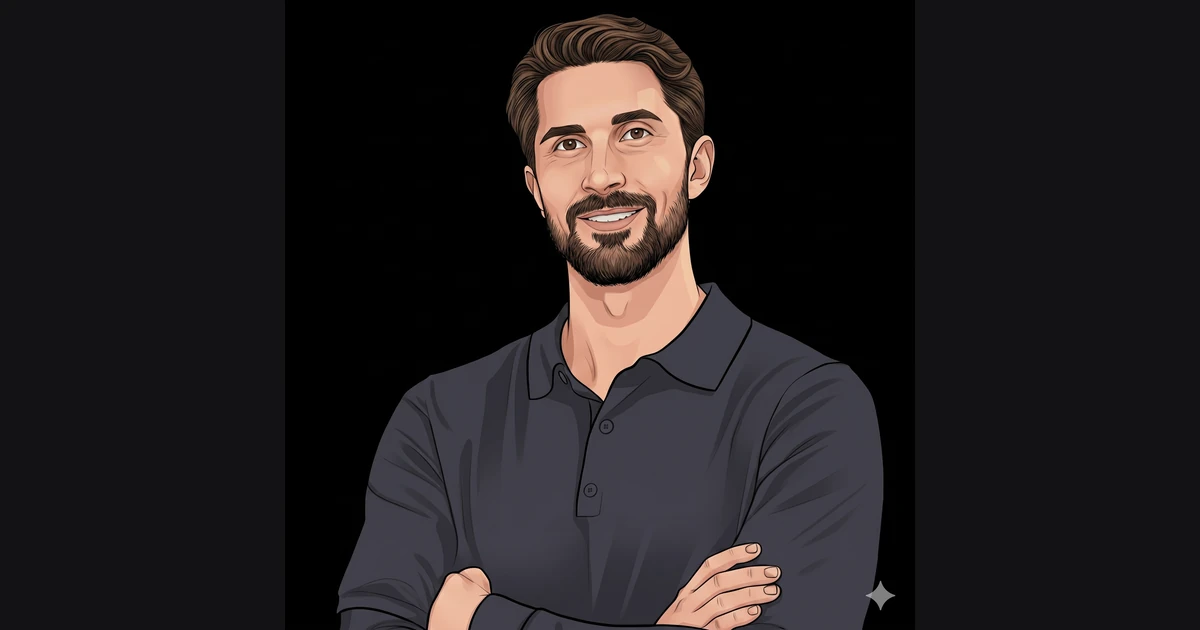
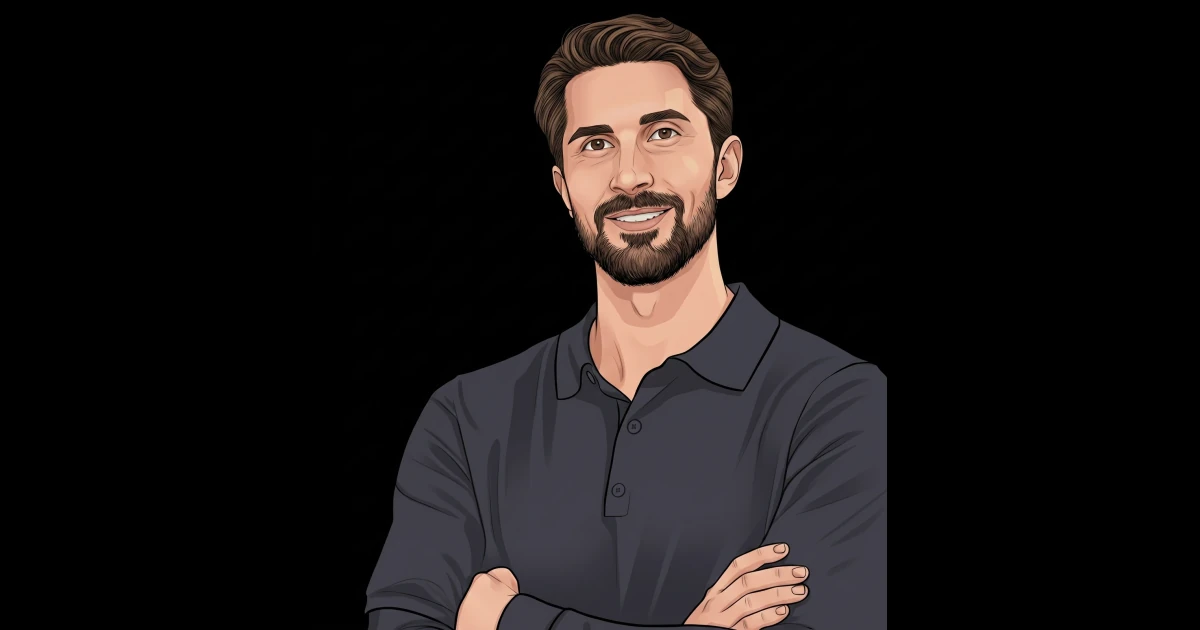
optimize landing images

diff --git a/assets/styles.css b/assets/styles.css
@@ -654,27 +654,28 @@ html[data-theme="dark"] .contact-modal .close-btn:hover {
   box-shadow: 0 30px 60px rgba(0, 0, 0, 0.15);
 }
 
-/* Larger than the disk + overflow on .hero-profile so a small upward move
-   never reveals the flat background under the artwork */
+/* Full portrait inside the disk: contain avoids zoom-crop; disk shows as a ring
+   where the square artwork does not cover the circle */
 .profile-image {
   position: absolute;
   left: 50%;
   top: 50%;
-  width: 108%;
-  height: 108%;
+  width: 100%;
+  height: 100%;
   max-width: none;
   border: none;
   border-radius: 0;
-  transform: translate(-50%, -50%);
+  /* Slightly below center so a small upward hover does not expose the disk at the bottom */
+  transform: translate(-50%, calc(-50% + 6px));
   transition: transform 0.4s ease, filter 0.4s ease;
-  object-fit: cover;
-  object-position: center 42%;
+  object-fit: contain;
+  object-position: center;
   filter: contrast(1.2);
   display: block;
 }
 
 .hero-profile:hover .profile-image {
-  transform: translate(-50%, calc(-50% - 5px));
+  transform: translate(-50%, calc(-50% + 1px));
 }
 
 /* Updated Layout Structure */
@@ -2922,11 +2923,6 @@ img + em {
     width: 220px;
     height: 220px;
     margin: 0 auto;
-  }
-
-  .profile-image {
-    width: 110%;
-    height: 110%;
   }
 
   .hero-title {
